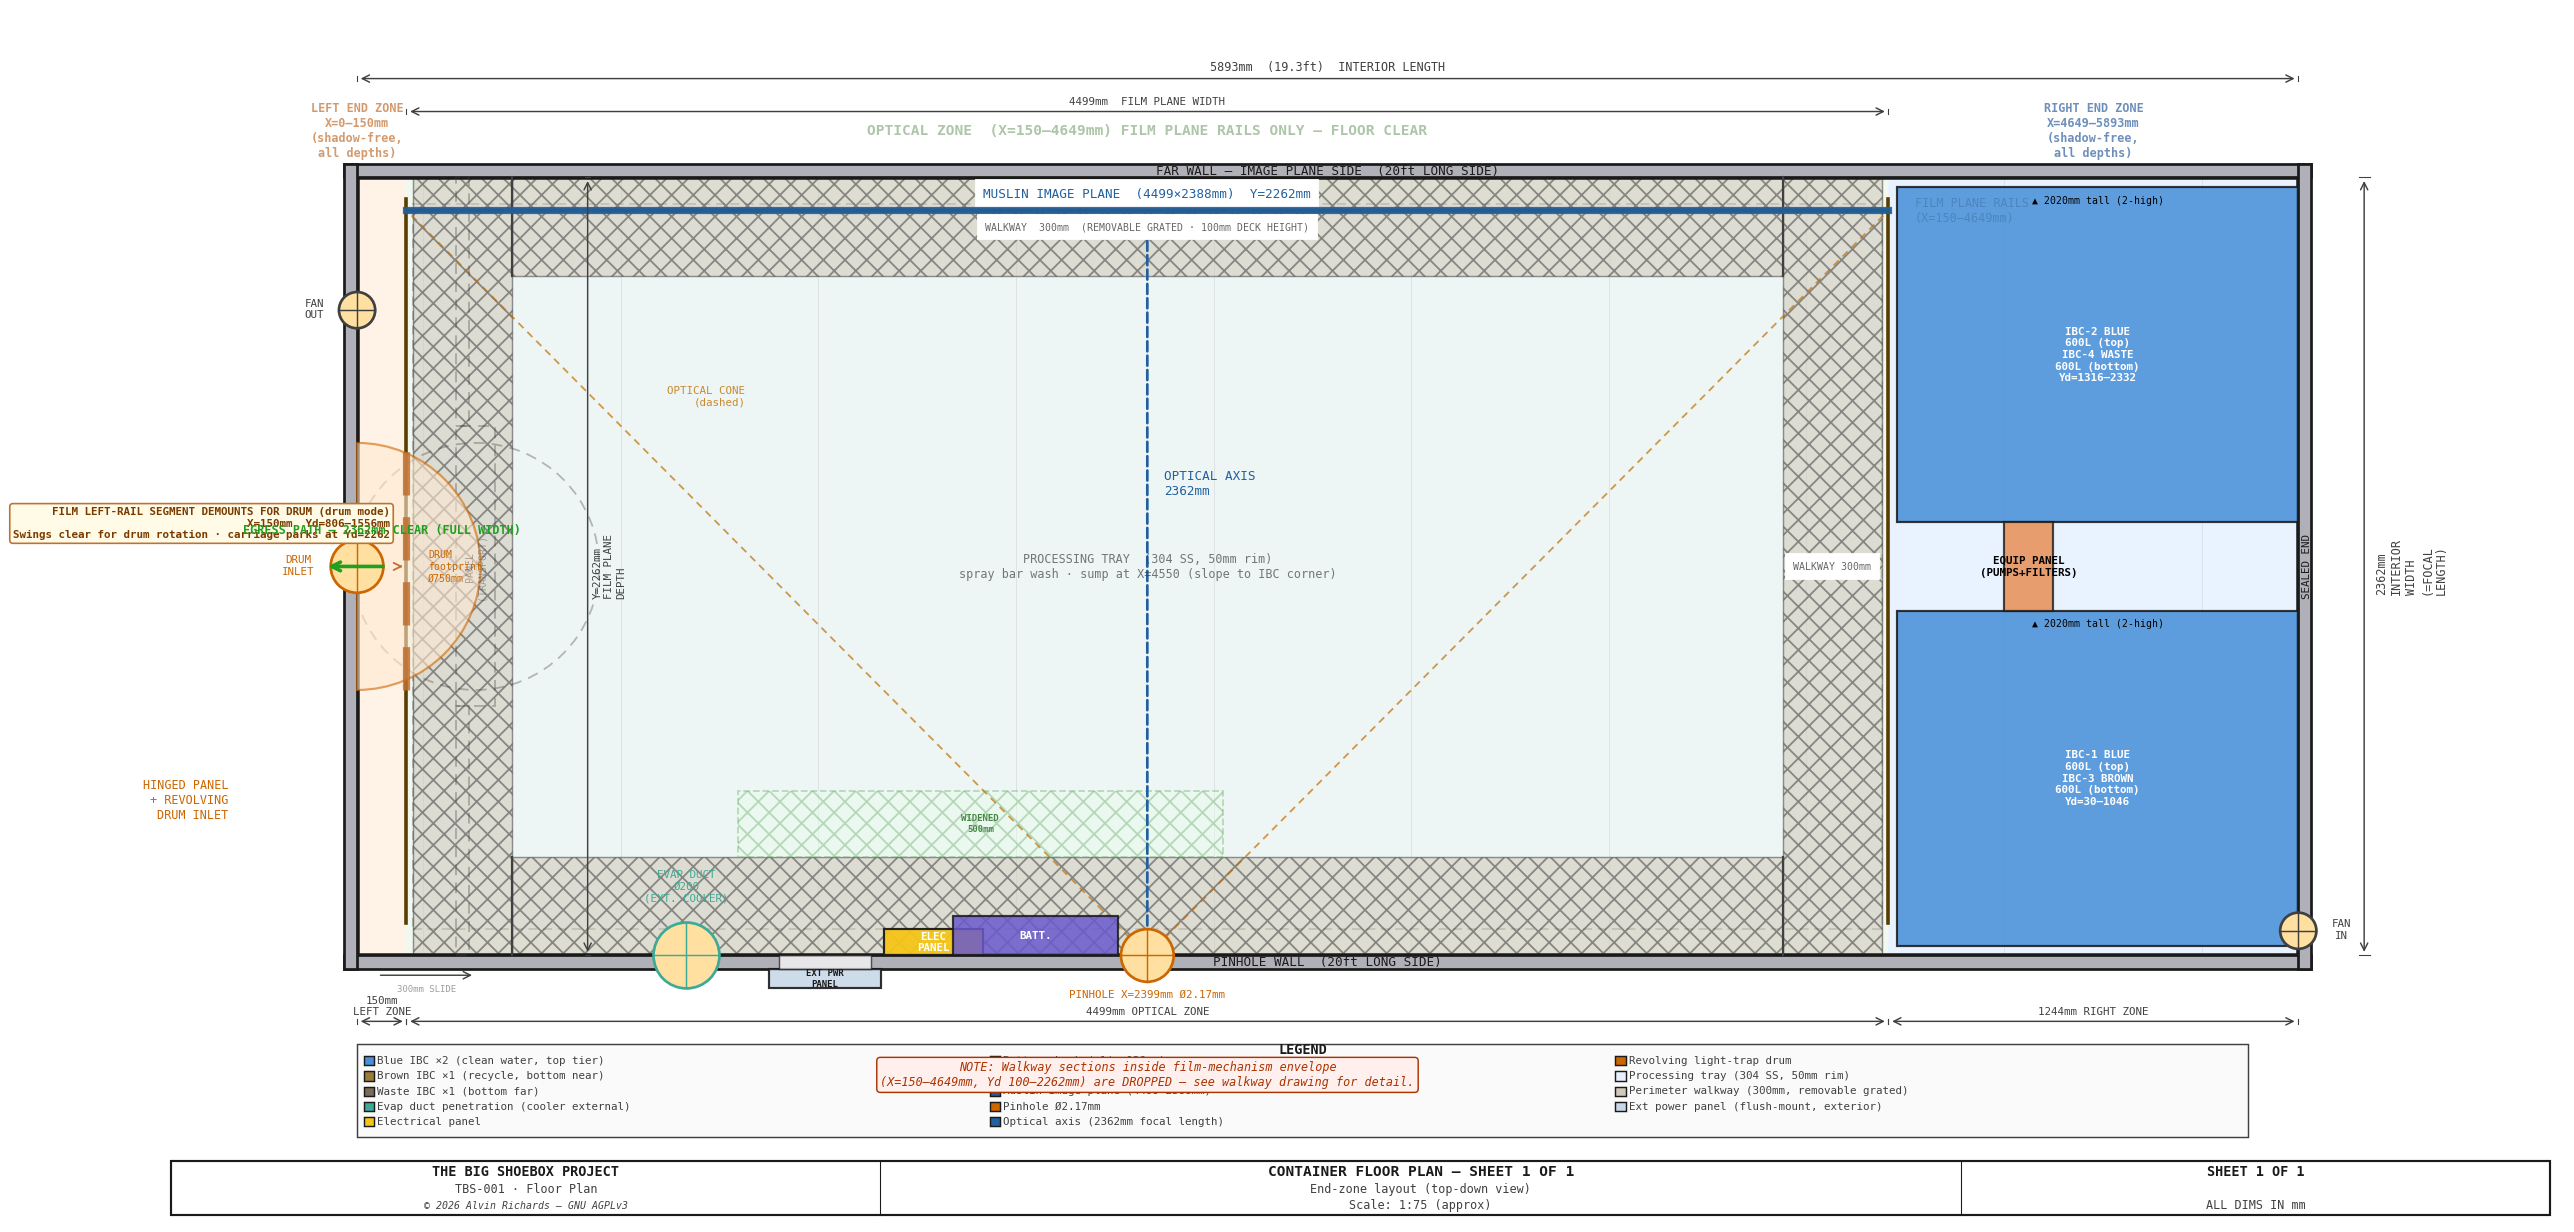
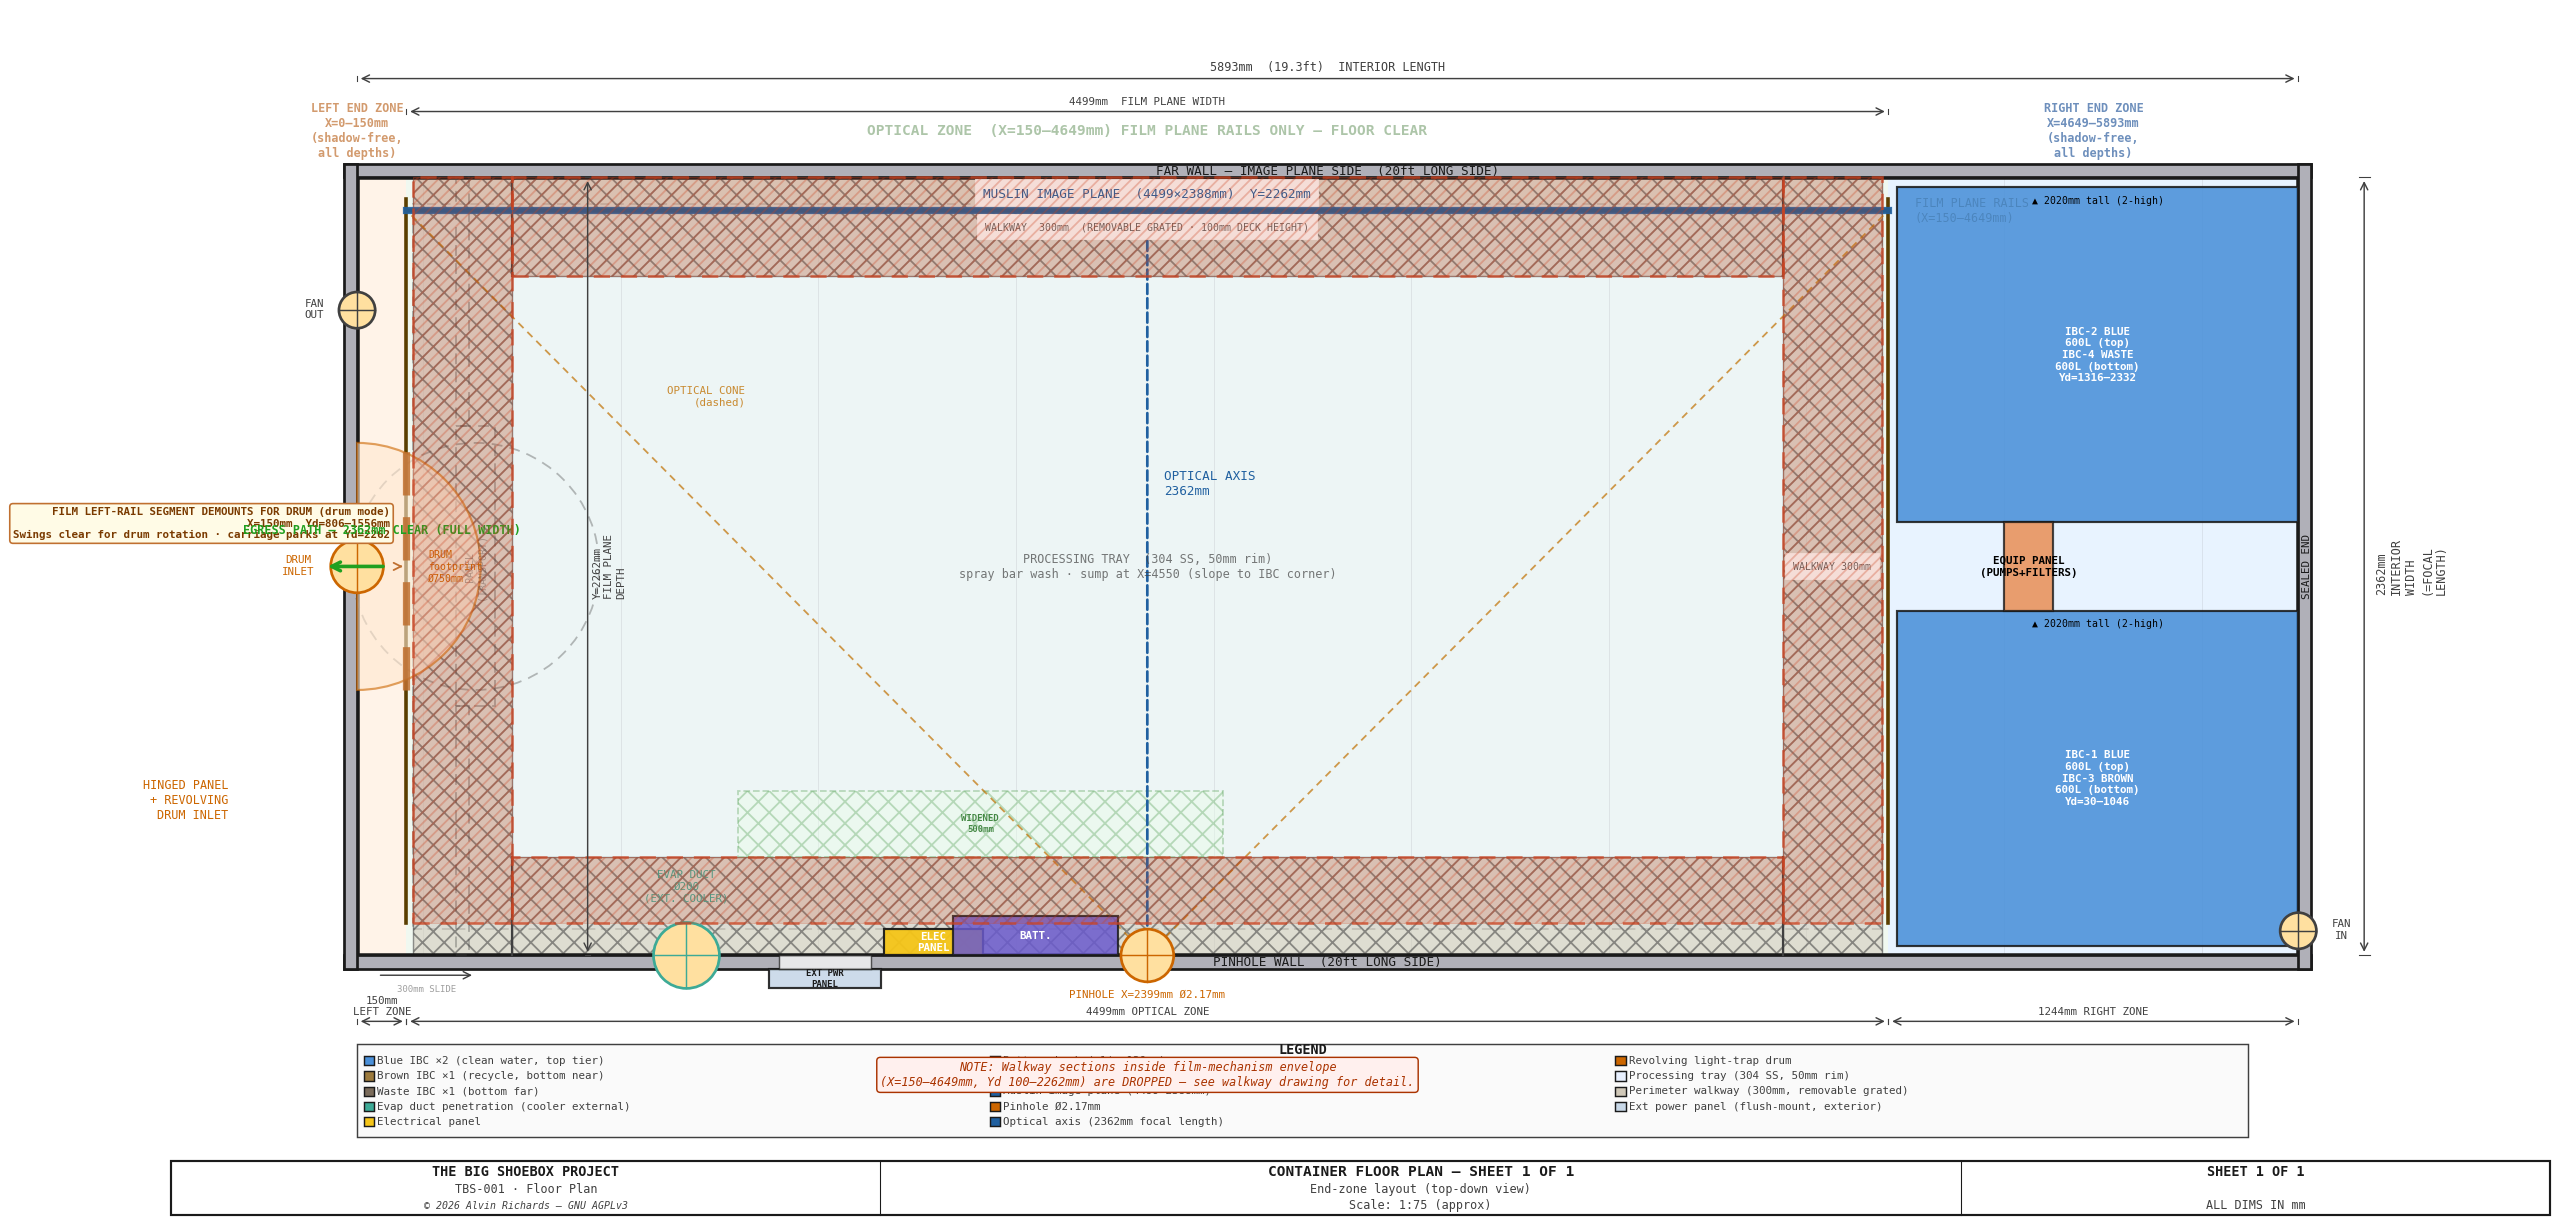
floorplan: ghost in-envelope walkway decks to match walkway drawing (fix Task 5 gap)

Changed region(s): [[0.1554, 0.1234, 0.7459, 0.7711]]

diff --git a/src/generators/generate_floorplan_diagram.py b/src/generators/generate_floorplan_diagram.py
@@ -480,12 +480,40 @@ def floor_plan():
             fontweight="bold", **FONT, zorder=10,
             bbox=dict(boxstyle="round,pad=0.3", fc="#FFFBE6", ec="#C07030", lw=0.9))
 
+    # ── Ghost overlays — in-envelope walkway sections (REMOVED for film-mech clearance) ──
+    # The walkway portions inside the film-plane mechanism envelope
+    # (X 150–4649, Yd 100–2262) are permanently removed.  Ghost them with the
+    # same treatment as generate_walkway_diagram.py so both drawings agree.
+    FM_YD_N = 100    # film-mechanism envelope near Yd boundary
+    FM_YD_F = FYO    # = 2262 (CARRIAGE_PARK_Y = FYO)
+
+    C_GHOST_WK   = "#CC4422"   # red-orange (matches walkway drawing)
+    GHOST_WK_A   = 0.18        # ghost fill alpha
+    GHOST_WK_A_E = 0.70        # ghost edge alpha
+
+    def _ghost_rect(ax, x0, y0, w, h, zorder=12):
+        """Overlay a ghosted cross-hatched rectangle to mark a removed walkway section."""
+        ax.add_patch(Rectangle((x0, y0), w, h,
+                                fc=C_GHOST_WK, ec="none", lw=0,
+                                alpha=GHOST_WK_A, zorder=zorder))
+        ax.add_patch(Rectangle((x0, y0), w, h,
+                                fc="none", ec=C_GHOST_WK, lw=1.5, ls=(0, (6, 4)),
+                                alpha=GHOST_WK_A_E, zorder=zorder + 1))
+        import matplotlib.patches as _mp
+        ax.add_patch(_mp.Rectangle((x0, y0), w, h,
+                                   fc="none", ec=C_GHOST_WK, lw=0.5,
+                                   hatch="////", alpha=0.30, zorder=zorder))
+
+    # NEAR: inner strip Yd 100–300, full span X 470–4329
+    _ghost_rect(ax, LXR, FM_YD_N, RX - LXR, NYI - FM_YD_N)
+    # FAR: inner strip Yd 1962–2262, full span X 470–4329
+    _ghost_rect(ax, LXR, FY, RX - LXR, FM_YD_F - FY)
+    # LEFT: inner Yd span 100–2262, full width X 170–470
+    _ghost_rect(ax, LX, FM_YD_N, W, FM_YD_F - FM_YD_N)
+    # RIGHT: inner Yd span 100–2262, full width X 4329–4629
+    _ghost_rect(ax, RX, FM_YD_N, W, FM_YD_F - FM_YD_N)
+
     # ── Dropped-walkway note (film-mechanism envelope) ────────────────────────
-    # The near and far walkway strips and the left/right walkway interior portions
-    # that fall inside the film-plane mechanism envelope (X 150–4649, Yd 100–2262)
-    # are PERMANENTLY REMOVED for brace-cage clearance — see walkway drawing.
-    # The floor plan still shows the full walkway rectangles as originally drawn;
-    # this note records the design decision so the two drawings are consistent.
     ax.text((ZONE_L_END + ZONE_R_START) / 2, -PAD_B + 480,
             "NOTE: Walkway sections inside film-mechanism envelope\n"
             f"(X={ZONE_L_END}–{ZONE_R_START}mm, Yd 100–{CARRIAGE_PARK_Y}mm) are DROPPED — "
